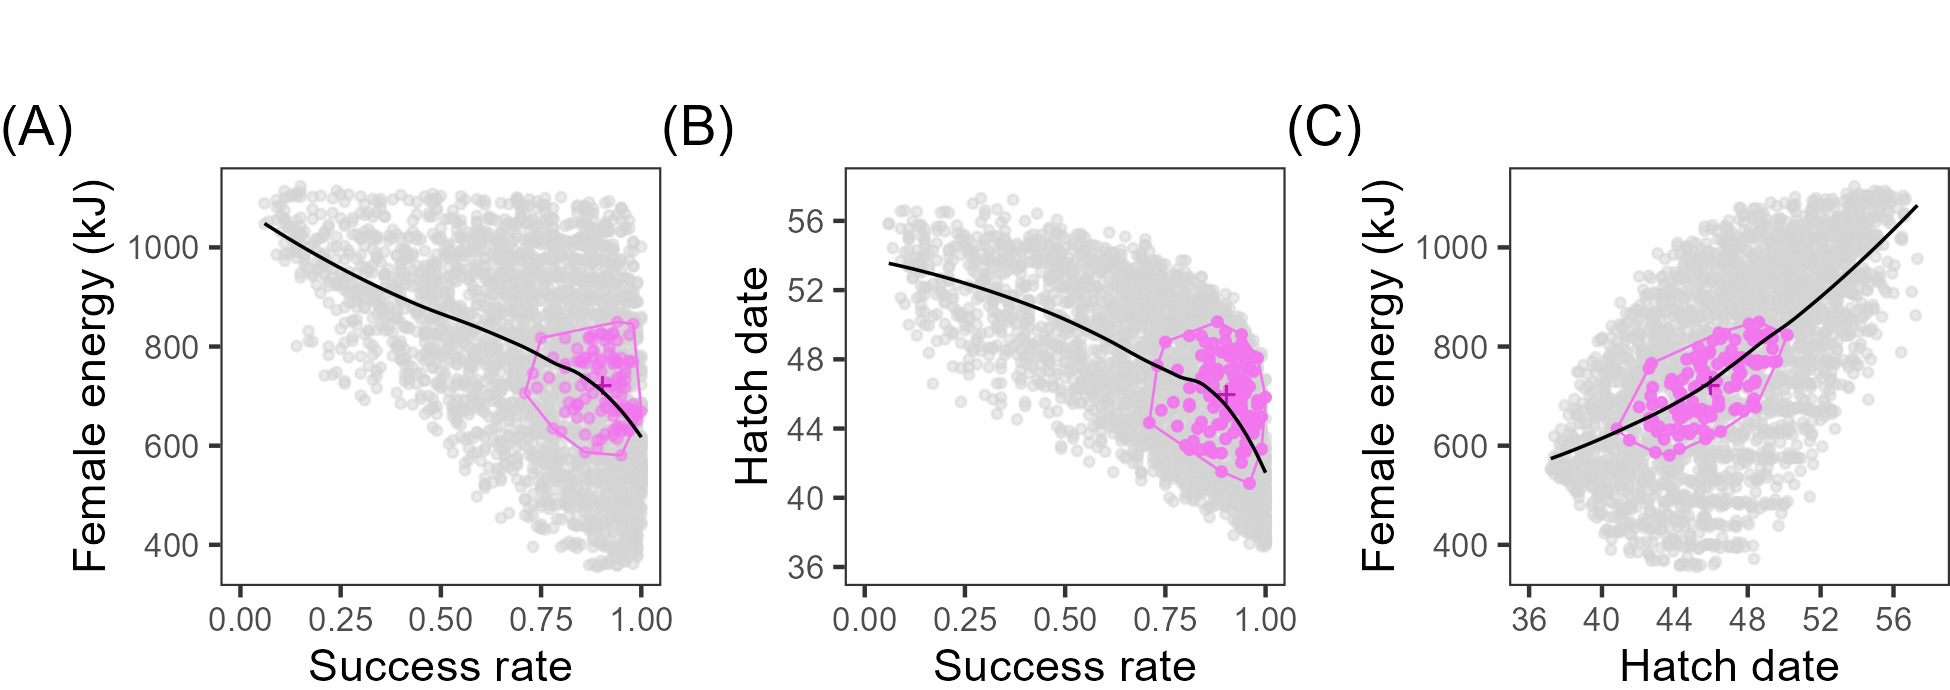
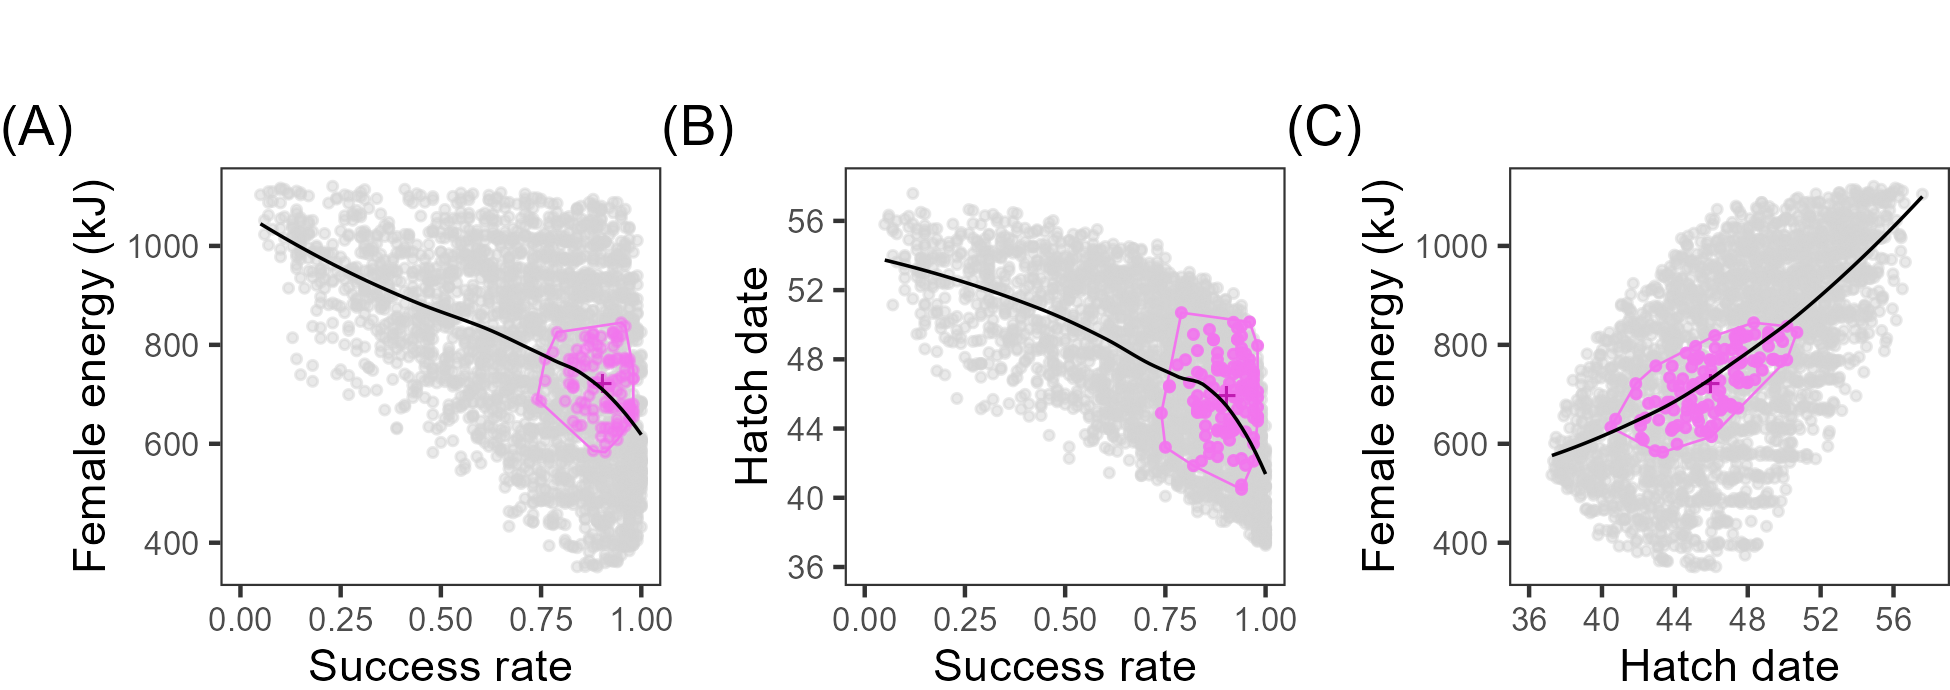
fixing bout trimming and sex swap - then will rerun 100, up figures and check, then to HPC with 1000 iters

diff --git a/src/main.cpp b/src/main.cpp
@@ -395,10 +395,10 @@ std::string breedingSeason(Parent& pf, Parent& pm, Egg& egg, bool swapSexOrder)
 	if (swapSexOrder) {
 		// If requested, swap females to begin foraging, and males to begin incubating
 		pf.setState(State::foraging);
-		pf.setPrevDayState(State::incubating);
+		pf.setPrevDayState(State::foraging);
 		
 		pm.setState(State::incubating);
-		pm.setPrevDayState(State::foraging);
+		pm.setPrevDayState(State::incubating);
 	}
 
 	/*
